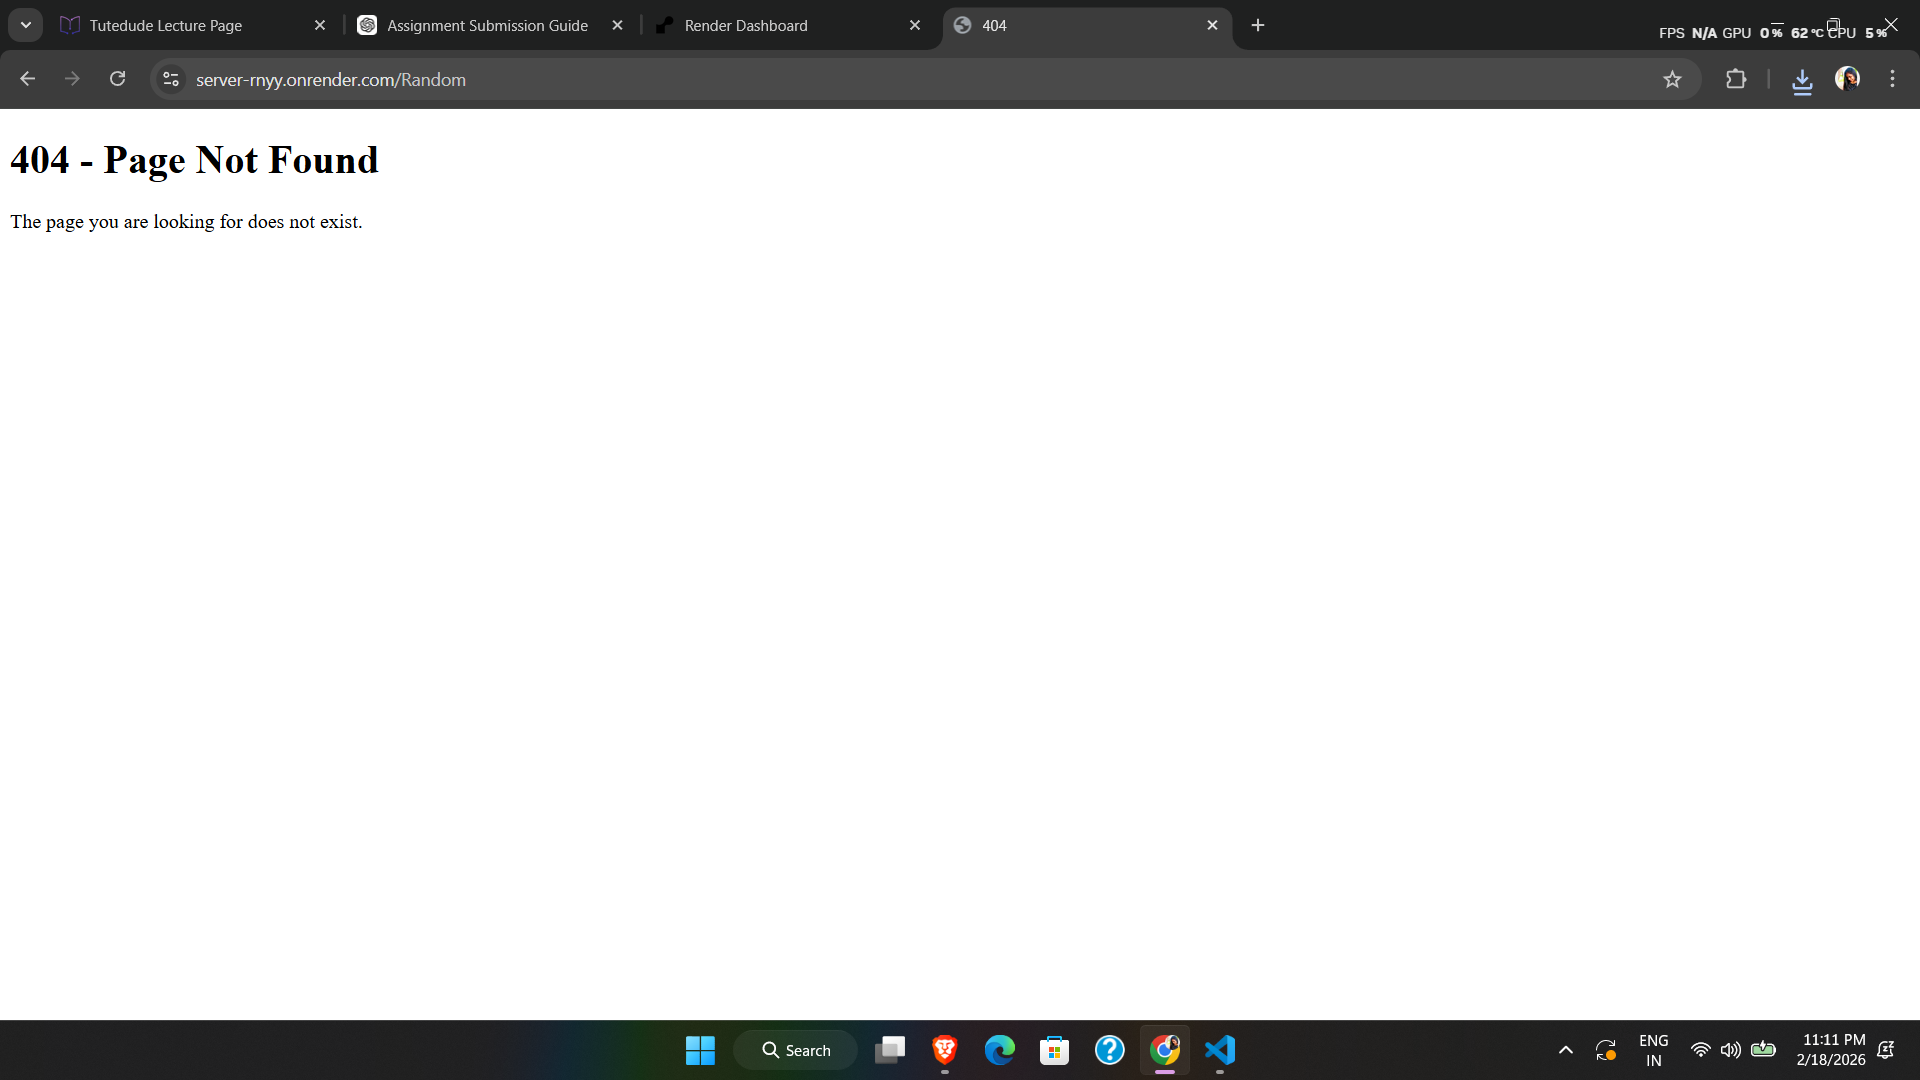
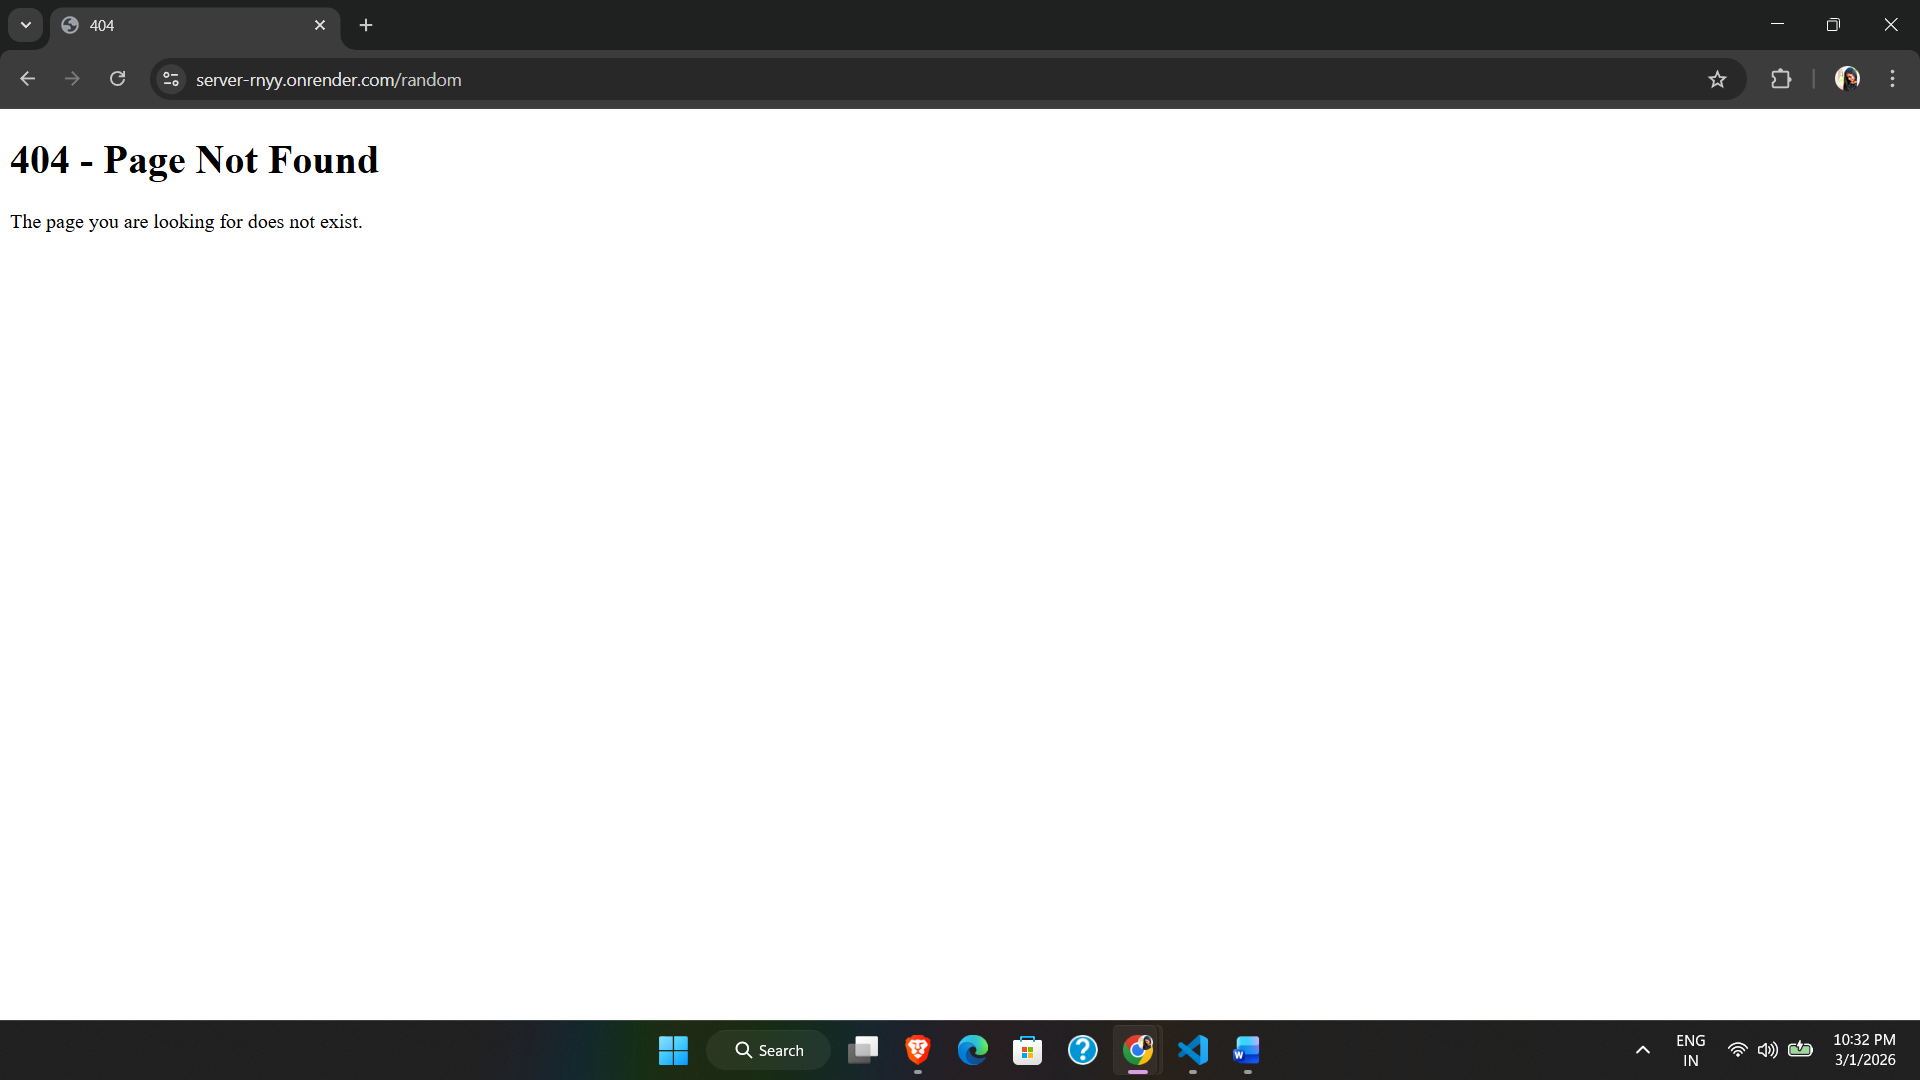
Enhanced README with proper documentation and visuals

Changed region(s): [[0.0, 0.0, 0.9375, 0.0917], [0.3438, 0.9472, 0.6562, 1.0], [0.8438, 0.9472, 1.0, 1.0]]

diff --git a/README.md b/README.md
@@ -37,13 +37,13 @@ https://server-rnyy.onrender.com
 ## Screenshots
 
 ### Home Page (/)
-[Home Page](screenshots/home.png)
+[Home Page](screenshots/HomePage.png)
 
 ### About Page (/about)
-[About Page](screenshots/about.png)
+[About Page](screenshots/AboutUs.png)
 
 ### Contact Page (/contact)
-[Contact Page](screenshots/Contact.png)
+[Contact Page](screenshots/ContactUs.png)
 
 ### 404 Error Page (Invalid Route)
 [404 Page](screenshots/404.png)
